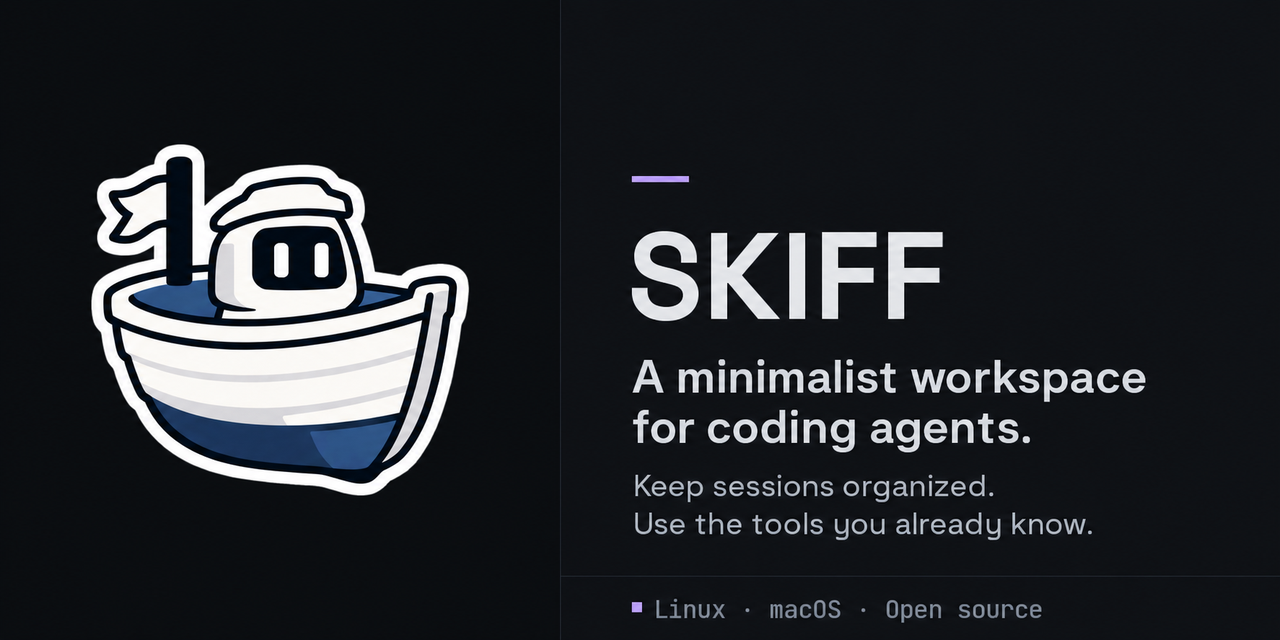
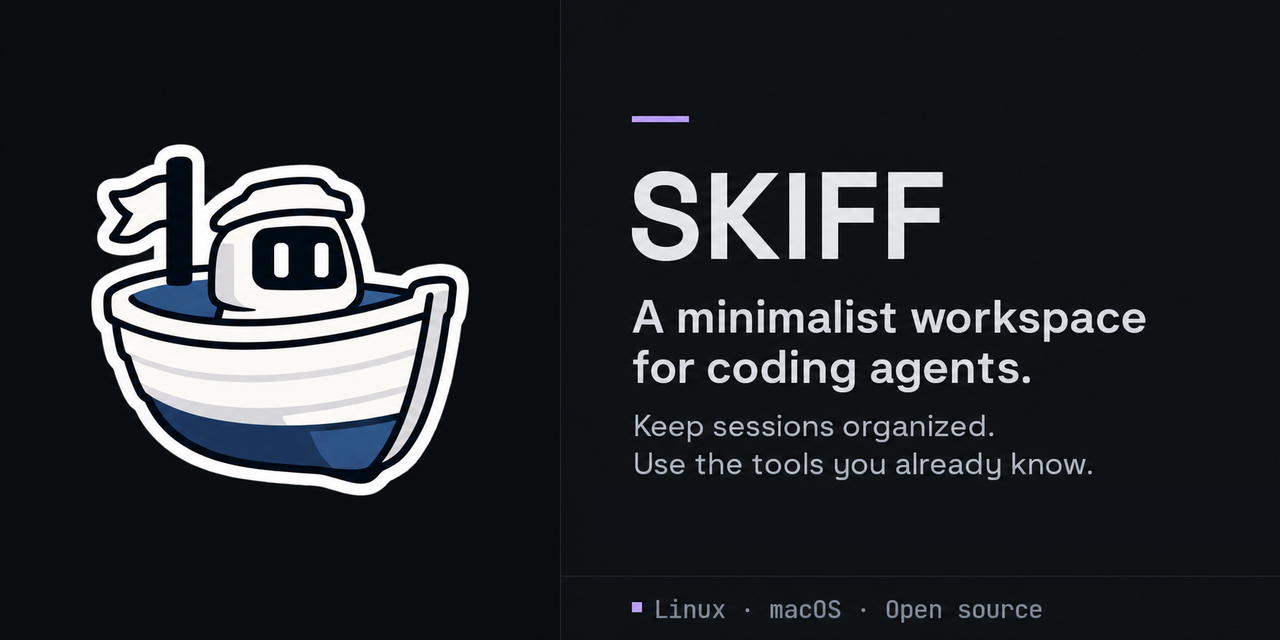
fix: center the text in the social preview image

Changed region(s): [[0.4688, 0.25, 0.9062, 0.7812], [0.5, 0.8125, 0.8438, 0.8438], [0.5, 0.1562, 0.5312, 0.2188]]

diff --git a/download/index.html b/download/index.html
@@ -10,7 +10,7 @@
 <meta property="og:type" content="website">
 <meta property="og:site_name" content="Skiff">
 <meta property="og:url" content="https://skiff.solutionscay.com/download/">
-<meta property="og:image" content="https://skiff.solutionscay.com/social-preview.png">
+<meta property="og:image" content="https://skiff.solutionscay.com/social-preview.png?v=2">
 <meta property="og:image:width" content="1280">
 <meta property="og:image:height" content="640">
 <meta property="og:image:alt" content="Skiff: a minimalist desktop workspace for coding agents">

diff --git a/support/index.html b/support/index.html
@@ -10,7 +10,7 @@
 <meta property="og:type" content="website">
 <meta property="og:site_name" content="Skiff">
 <meta property="og:url" content="https://skiff.solutionscay.com/support/">
-<meta property="og:image" content="https://skiff.solutionscay.com/social-preview.png">
+<meta property="og:image" content="https://skiff.solutionscay.com/social-preview.png?v=2">
 <meta property="og:image:width" content="1280">
 <meta property="og:image:height" content="640">
 <meta property="og:image:alt" content="Skiff: a minimalist desktop workspace for coding agents">

diff --git a/index.html b/index.html
@@ -10,7 +10,7 @@
 <meta property="og:type" content="website">
 <meta property="og:site_name" content="Skiff">
 <meta property="og:url" content="https://skiff.solutionscay.com/">
-<meta property="og:image" content="https://skiff.solutionscay.com/social-preview.png">
+<meta property="og:image" content="https://skiff.solutionscay.com/social-preview.png?v=2">
 <meta property="og:image:width" content="1280">
 <meta property="og:image:height" content="640">
 <meta property="og:image:alt" content="Skiff: a minimalist desktop workspace for coding agents">
